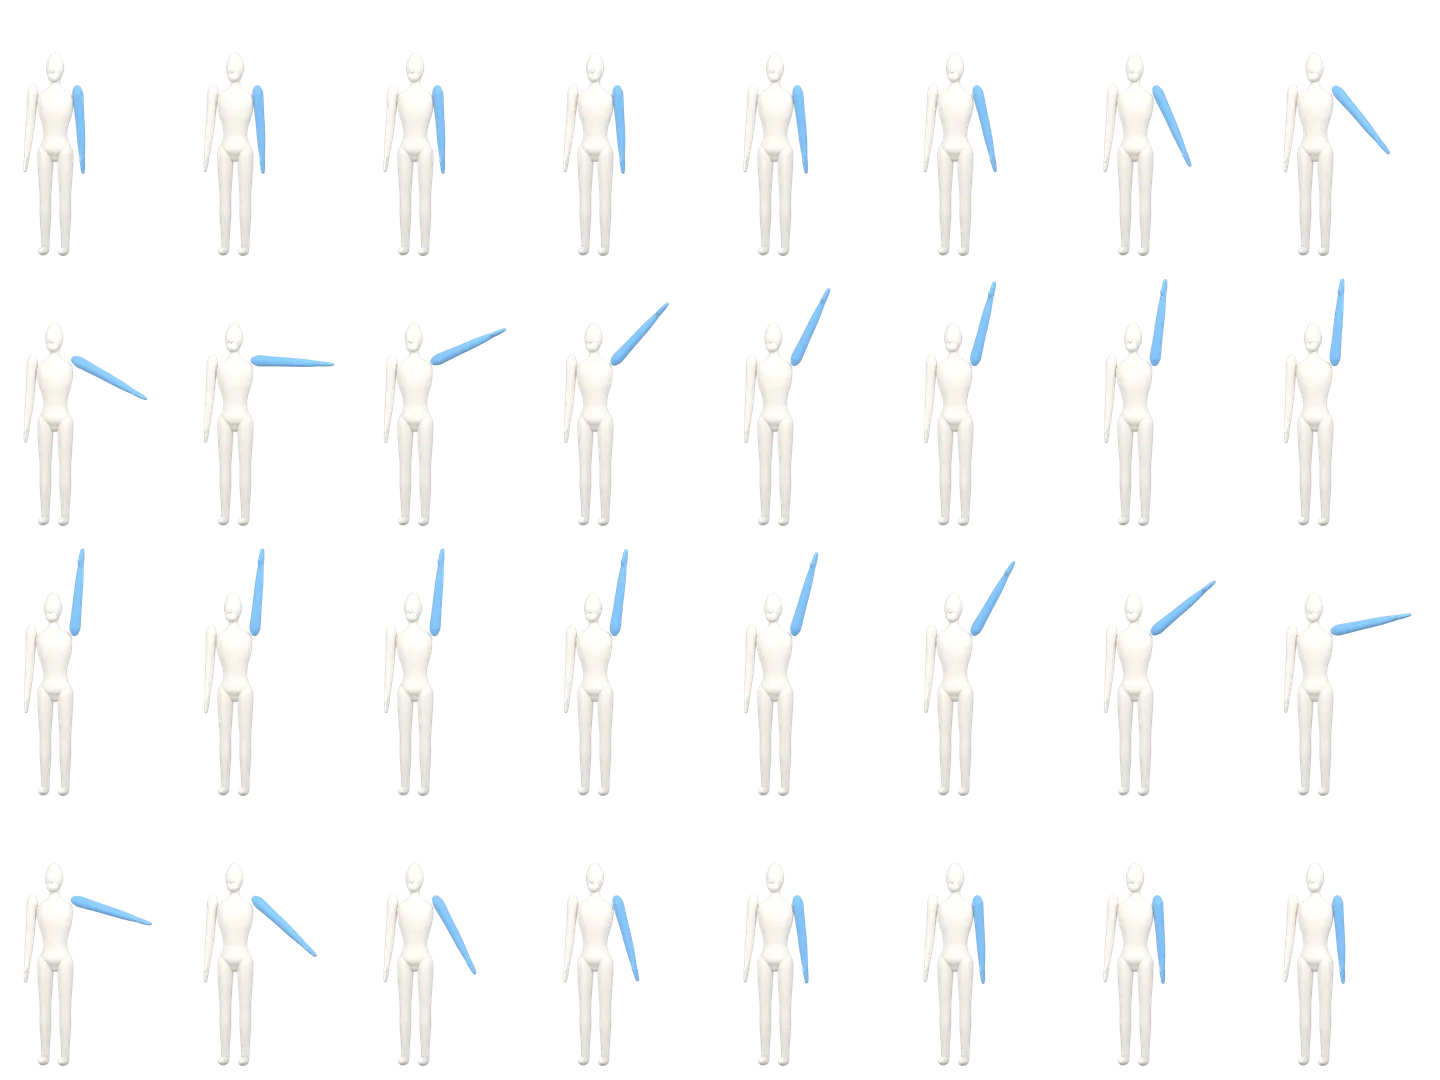
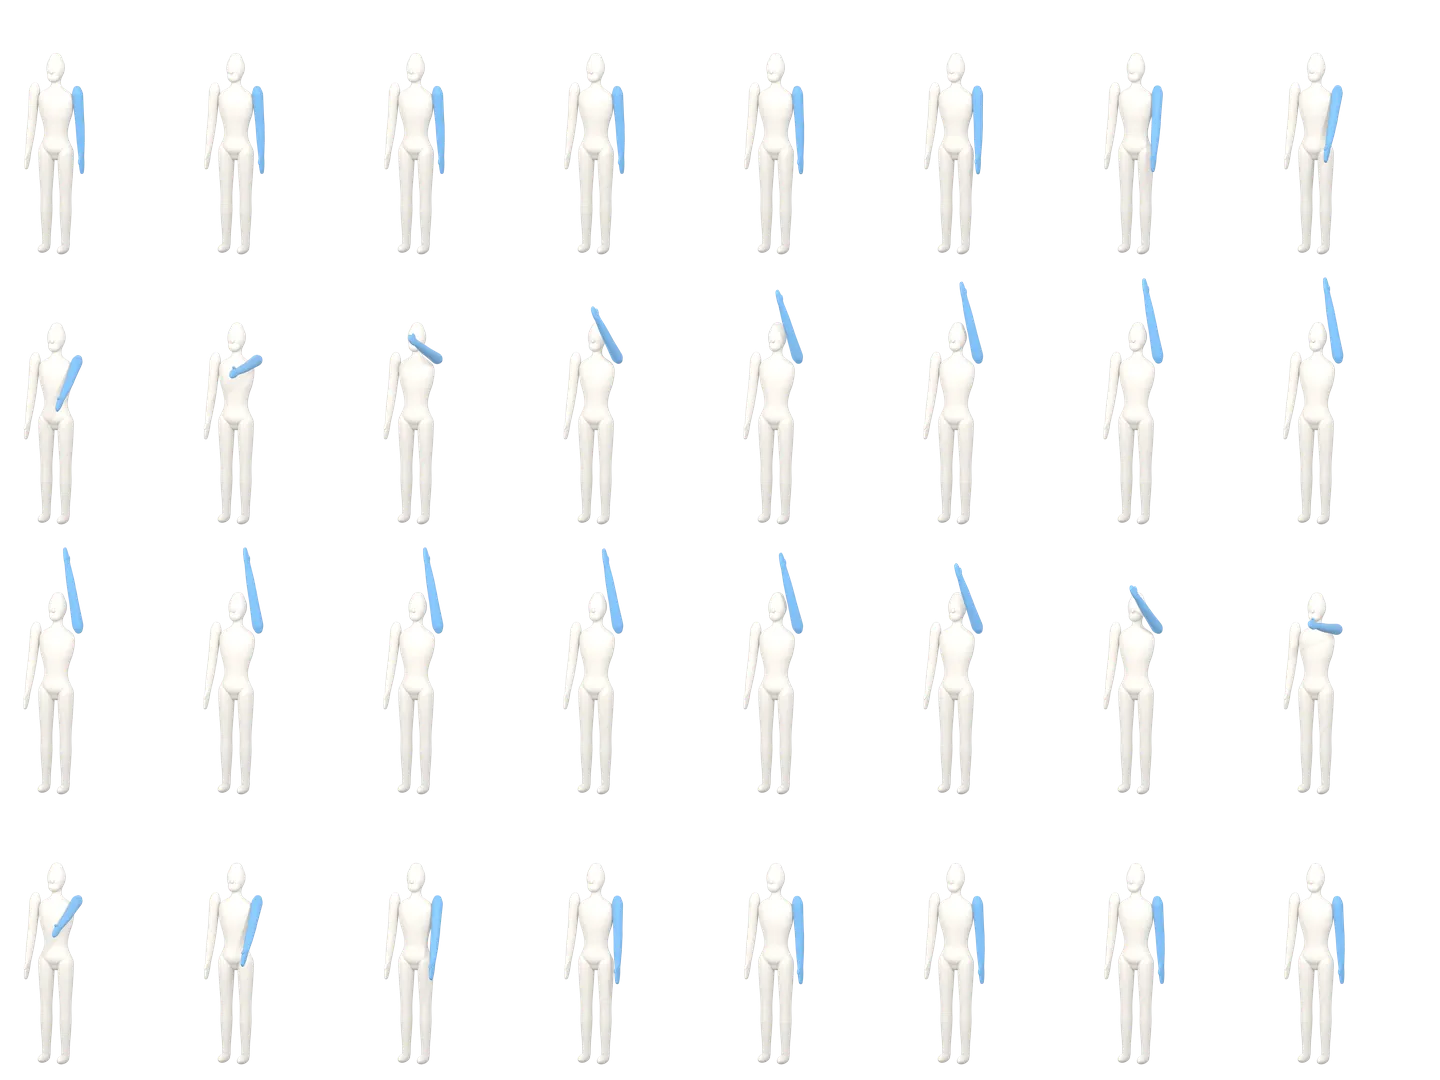
Arm raise mannequin: forward shoulder flexion, gauge beside the body

diff --git a/demos/src/FigureDemo.tsx b/demos/src/FigureDemo.tsx
@@ -48,10 +48,11 @@ function Figure({ w, run, t0, mirror = false, skeleton = false }: { w: number; r
   if (!fig) return <div ref={box} style={{ width: w, height: h }} />
   const P = fig.points[k]
   const ang = fig.shoulderAngleDeg[k]
-  const sh = P[J(fig, 'r_shoulder')]
+  const sh0 = fig.points[0][J(fig, 'r_shoulder')]
+  const sh = [sh0[0] + 74, sh0[1]] // the arm swings forward, towards the camera, so the angle is shown on a gauge beside the body, not as a sweep of the arm
   const R = 70
   const toRad = (d: number) => (d * Math.PI) / 180
-  const arcPt = (d: number) => [sh[0] + R * Math.sin(toRad(d)) * -1, sh[1] + R * Math.cos(toRad(d))] // 0 = hanging down, 180 = overhead (arm raises on the image right)
+  const arcPt = (d: number) => [sh[0] + R * Math.sin(toRad(d)), sh[1] + R * Math.cos(toRad(d))] // gauge: 0 = arm hanging down, 180 = overhead; shoulderAngleDeg is the true 3D angle from the rig
   const a0 = arcPt(0), a1 = arcPt(Math.max(ang, 1)), tg = arcPt(150)
   return (
     <div ref={box} style={{ position: 'relative', width: w, height: h, transform: mirror ? 'scaleX(-1)' : undefined }}>
@@ -63,7 +64,7 @@ function Figure({ w, run, t0, mirror = false, skeleton = false }: { w: number; r
             return <line key={i} x1={pa[0]} y1={pa[1]} x2={pb[0]} y2={pb[1]} stroke={work ? '#1f8ae6' : '#7fbdf2'} strokeWidth={work ? 7 : 4} strokeLinecap="round" />
           })}
           {P.map((p, i) => <circle key={i} cx={p[0]} cy={p[1]} r={fig.joints[i].startsWith('r_') && i < 8 ? 7 : 5} fill="#fff" stroke="#1f8ae6" strokeWidth="3" />)}
-          <path d={`M${a0[0]},${a0[1]} A${R},${R} 0 0 ${a1[0] < sh[0] ? 1 : 0} ${a1[0]},${a1[1]}`} fill="none" stroke="#ffc23d" strokeWidth="6" strokeLinecap="round" />
+          <path d={`M${a0[0]},${a0[1]} A${R},${R} 0 0 0 ${a1[0]},${a1[1]}`} fill="none" stroke="#ffc23d" strokeWidth="6" strokeLinecap="round" />
           <circle cx={tg[0]} cy={tg[1]} r="5" fill="none" stroke="#f28c28" strokeWidth="3" strokeDasharray="3 3" />
         </svg>
       )}

diff --git a/scripts/mascot/figure/armraise_export.py b/scripts/mascot/figure/armraise_export.py
@@ -13,11 +13,11 @@ OUT = sys.argv[sys.argv.index("--") + 1]
 os.makedirs(OUT, exist_ok=True)
 W, H, SS = 360, 540, 2          # frame size, supersample factor
 N = 32                          # frames at 12 fps
-UP = {"upper_arm_L": (0, -172, 0), "forearm_L": (0, 0, 0), "clavicle_L": (0, 0, -9),
-      "spine": (0, -2, 0), "head": (0, 2, 0)}
+UP = {"upper_arm_L": (-172, 0, 0), "forearm_L": (0, 0, 0), "clavicle_L": (0, -9, 0),
+      "spine": (-3, 0, 0), "chest": (-2, 0, 0), "head": (2, 0, 0)}
 # 3 hold at bottom (29..3), 12 up, 4 hold at top (15..18), 11 down; frame N keyed == frame 0 (seamless)
 define("ARM", N, [(0, {}), (3, {}), (15, UP), (18, UP), (29, {}), (N, {})], {"arm_L"}, framing="tall", shadow=None,
-       cam=dict(az=15, el=6, target=(.30, .05, 1.06), scale=2.36))
+       cam=dict(az=22, el=12, target=(.30, .05, 1.06), scale=2.36))
 ex = build("ARM", 64)
 sc = bpy.context.scene
 sc.render.resolution_x, sc.render.resolution_y = W * SS, H * SS
